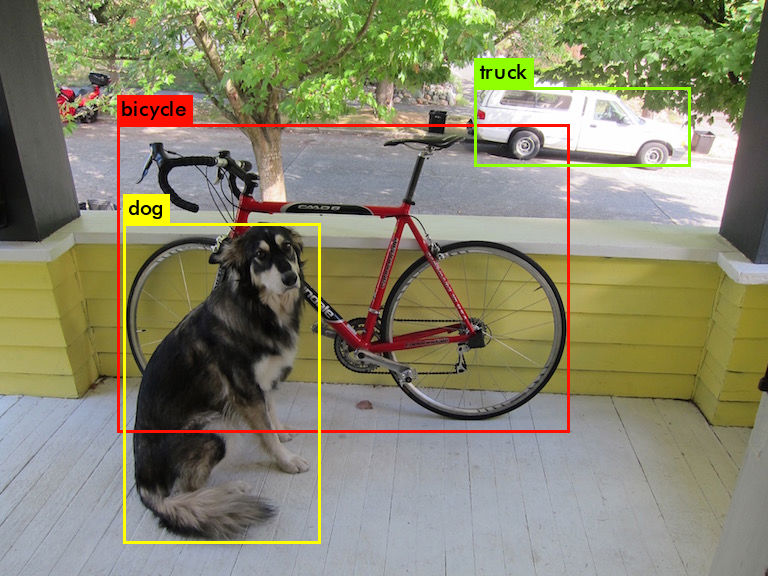
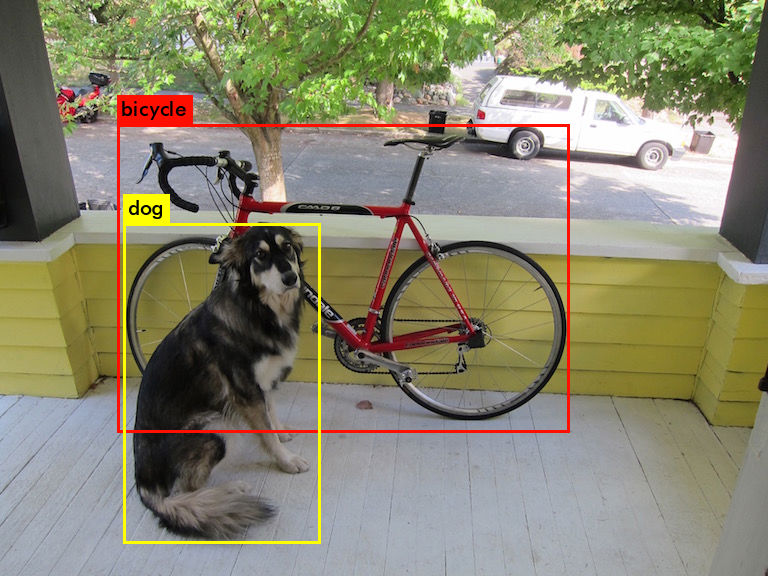
updates: - modified readme: add development targets in bullet points. - modified image.c: only draw bounding-box of recognized labels(var="recog_labels")

Changed region(s): [[0.5938, 0.0938, 0.9062, 0.3125]]

diff --git a/src/image.c b/src/image.c
@@ -17,6 +17,14 @@
 #include "stb_image_write.h"
 #endif
 
+//Ardi
+#define MAX_LABEL 2
+#define MAX_STRING_SIZE 15
+
+typedef int bool;
+#define TRUE  1
+#define FALSE 0
+
 extern int check_mistakes;
 //int windows = 0;
 
@@ -304,10 +312,27 @@ int compare_by_probs(const void *a_ptr, const void *b_ptr) {
     return delta < 0 ? -1 : delta > 0 ? 1 : 0;
 }
 
+// Ardi: try capturing only recognized labels (recog_labels)
+bool is_recognized(char *detected_class){
+    char recog_labels[MAX_LABEL][MAX_STRING_SIZE] = {
+                         "bicycle", // as a person
+                         "dog" // as the flag
+                         };
+
+    for (int k = 0; k < MAX_LABEL; k++)
+    {
+        if(strcmp(detected_class, recog_labels[k]) == 0){
+            return TRUE;
+        }
+    }
+    return FALSE;
+}
+
 void draw_detections_v3(image im, detection *dets, int num, float thresh, char **names, image **alphabet, int classes, int ext_output)
 {
     static int frame_id = 0;
     frame_id++;
+
 
     int selected_detections_num;
     detection_with_class* selected_detections = get_actual_detections(dets, num, thresh, &selected_detections_num, names);
@@ -318,6 +343,10 @@ void draw_detections_v3(image im, detection *dets, int num, float thresh, char *
     int i;
     for (i = 0; i < selected_detections_num; ++i) {
         const int best_class = selected_detections[i].best_class;
+
+        // Ardi: try recognizing the detected object
+        is_recognized(names[best_class]);
+
         printf("%s: %.0f%%", names[best_class],    selected_detections[i].det.prob[best_class] * 100);
         if (ext_output)
             printf("\t(left_x: %4.0f   top_y: %4.0f   width: %4.0f   height: %4.0f)\n",
@@ -326,6 +355,8 @@ void draw_detections_v3(image im, detection *dets, int num, float thresh, char *
                 round(selected_detections[i].det.bbox.w*im.w), round(selected_detections[i].det.bbox.h*im.h));
         else
             printf("\n");
+
+
         int j;
         for (j = 0; j < classes; ++j) {
             if (selected_detections[i].det.prob[j] > thresh && j != best_class) {
@@ -396,34 +427,59 @@ void draw_detections_v3(image im, detection *dets, int num, float thresh, char *
             img_id++;
             char image_name[1024];
             int best_class_id = selected_detections[i].best_class;
-            sprintf(image_name, "result_img/img_%d_%d_%d_%s.jpg", frame_id, img_id, best_class_id, names[best_class_id]);
+            sprintf(image_name, "results/img_%d_%d_%d_%s.jpg", frame_id, img_id, best_class_id, names[best_class_id]);
             save_image(cropped_im, image_name);
             free_image(cropped_im);
 
-            if (im.c == 1) {
-                draw_box_width_bw(im, left, top, right, bot, width, 0.8);    // 1 channel Black-White
+            // Ardi: Drawing bounding boxes
+            if (is_recognized(names[selected_detections[i].best_class])){
+                if (im.c == 1) {
+                    draw_box_width_bw(im, left, top, right, bot, width, 0.8);    // 1 channel Black-White
+                }
+                else {
+                    draw_box_width(im, left, top, right, bot, width, red, green, blue); // 3 channels RGB
+                }
             }
-            else {
-                draw_box_width(im, left, top, right, bot, width, red, green, blue); // 3 channels RGB
-            }
+
+//            if (im.c == 1) {
+//                draw_box_width_bw(im, left, top, right, bot, width, 0.8);    // 1 channel Black-White
+//            }
+//            else {
+//                draw_box_width(im, left, top, right, bot, width, red, green, blue); // 3 channels RGB
+//            }
+
+            // Ardi: Drawing Label of each bounding box
             if (alphabet) {
                 char labelstr[4096] = { 0 };
                 strcat(labelstr, names[selected_detections[i].best_class]);
-                int j;
-                for (j = 0; j < classes; ++j) {
-                    if (selected_detections[i].det.prob[j] > thresh && j != selected_detections[i].best_class) {
-                        strcat(labelstr, ", ");
-                        strcat(labelstr, names[j]);
+
+                if (is_recognized(names[selected_detections[i].best_class])){
+                    int j;
+                    for (j = 0; j < classes; ++j) {
+                        if (selected_detections[i].det.prob[j] > thresh && j != selected_detections[i].best_class) {
+                            strcat(labelstr, ", ");
+                            strcat(labelstr, names[j]);
+                        }
                     }
+
+                    image label = get_label_v3(alphabet, labelstr, (im.h*.03));
+                    draw_label(im, top + width, left, label, rgb);
+                    free_image(label);
                 }
 
-                // Ardi: try printing
-//                sprintf(labelstr, "%d x %d - w: %d, h: %d", b_x_center, b_y_center, b_width, b_height);
-
-                image label = get_label_v3(alphabet, labelstr, (im.h*.03));
-                draw_label(im, top + width, left, label, rgb);
-                free_image(label);
+//                int j;
+//                for (j = 0; j < classes; ++j) {
+//                    if (selected_detections[i].det.prob[j] > thresh && j != selected_detections[i].best_class) {
+//                        strcat(labelstr, ", ");
+//                        strcat(labelstr, names[j]);
+//                    }
+//                }
+//
+//                image label = get_label_v3(alphabet, labelstr, (im.h*.03));
+//                draw_label(im, top + width, left, label, rgb);
+//                free_image(label);
             }
+            // Ardi: not used in our case
             if (selected_detections[i].det.mask) {
                 image mask = float_to_image(14, 14, 1, selected_detections[i].det.mask);
                 image resized_mask = resize_image(mask, b.w*im.w, b.h*im.h);

diff --git a/scripts/calc_distance.py b/scripts/calc_distance.py
@@ -1,0 +1,28 @@
+import math # 'math' needed for 'sqrt'
+# Function which returns subset or r length from n
+from itertools import combinations
+
+# distance() function to take two (x, y) tuples as parameters
+def distance(p0, p1):
+    return math.sqrt((p0[0] - p1[0])**2 + (p0[1] - p1[1])**2)
+
+# Run through input and reorder in [(x, y), (x,y) ...] format
+data_points = ["9.5 7.5", "10.2 19.1", "9.7 10.2"] # Original input list (entered by spacing the two points).
+m_input = [] # Manipulated list
+final_list = [] # Final list
+for o in data_points:
+    m_input = o.split()
+    x, y = float(m_input[0]), float(m_input[1])
+    final_list += [(x, y)] # outputs [(9.5, 7.5), (10.2, 19.1), (9.7, 10.2)]
+
+print("final_list = ", final_list)
+print("type final_list = ", type(final_list))
+
+# iterate over all pairs of points from your list final_list
+# The function iterools.combinations() is handy for this purpose
+min_distance = distance(final_list[0], final_list[1])
+for p0, p1 in combinations(final_list, 2):
+    min_distance = min(min_distance, distance(p0, p1))
+
+print(" >> min_distance = ", min_distance)
+

diff --git a/README.md b/README.md
@@ -82,12 +82,17 @@ You can get cfg-files by path: `darknet/cfg/`
 
 ### Modifications
 
+* Script to run the testing:
+```
+./darknet detector test cfg/coco.data cfg/yolov3.cfg yolov3.weights -ext_output data/dog.jpg
+```
 * Modified `src/image.c` and add capabilities to:
     - [x] Extracting `top_x`, `top_y`, `w`, `h`, `center_x`, and `center_y` of each **detected object**.
-    - [ ] Calculating the `distance` between 2 **detected objects**. Let's assume that Dog=Flag and Bicycle=Person; try calculating the distance between Dog and Bicycle.
-        ```Let's assume that Dog=Flag and Bicycle=Person; try calculating the distance between Dog and Bicycle. ``` 
-    - [ ] Define the Threshold to remove bounding box of any Dog and Bicycle with `Distance(Dog, Bicycle) < Threshold`.
-    - [ ] Create a new bounding box of [Dog+Bicycle] as a single bounding box with label = "Dog_Bicycle" (Optional), re-calculating the variable of `top_x, top_y, w, h, center_x, center_y`.
+    - [ ] Preparing a dataset with outlier objects. e.g. `2 Bicycles with 1 Dog`, or `1 Bicycle with 2 Dog`. 
+    - [ ] Cluster Bicycle-Dog; where each cluster contain `overlapped between Bicycle and Dog`; Number of `K` is equal to `Max(Bicycle, Dog)`
+    - [ ] Calculate the distance of each pair of `Bicycle-Dog` 
+    - [ ] Set as Pair for `Bicycle-Dog` with the minimum distance. While others are defined as `outliers` and erase their bounding boxes.
+    - [ ] Create a new bounding box of [Dog+Bicycle] as a single bounding box with label = "Dog_Bicycle", by re-calculating the variable of `top_x, top_y, w, h, center_x, center_y`.
     
 ### Requirements
 
